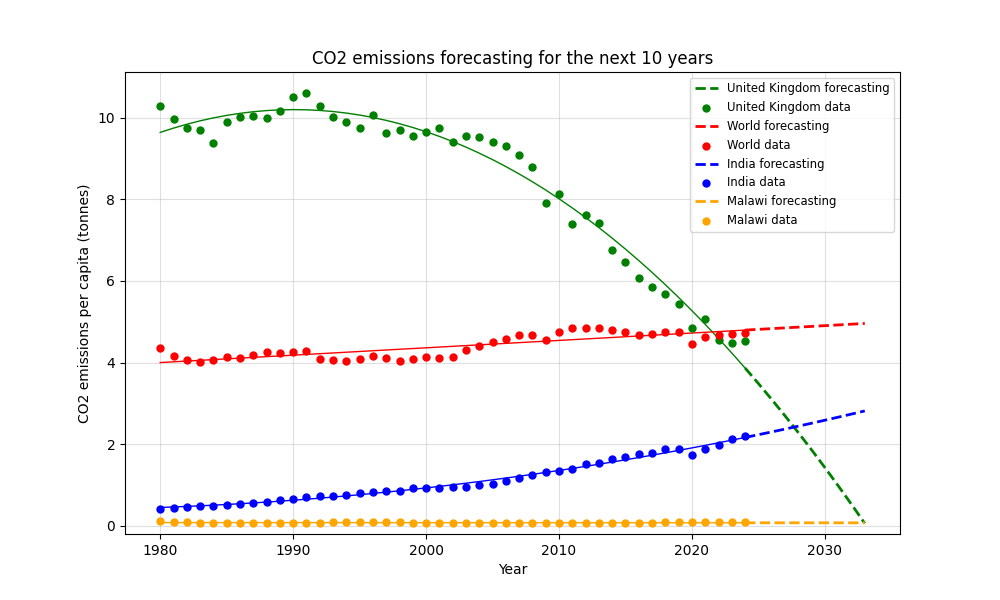
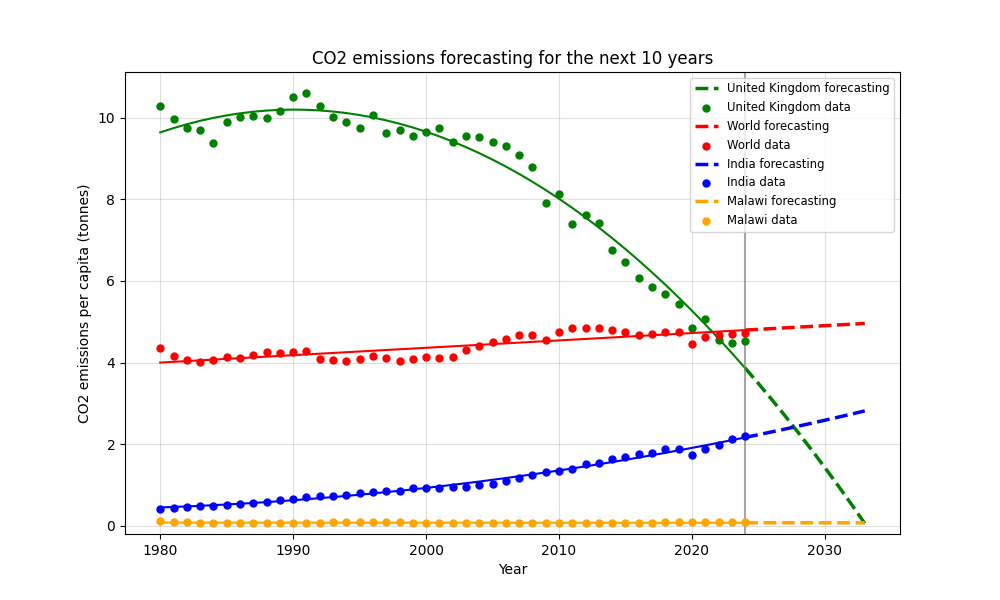
line width change

diff --git a/Figures/co2_emissions_forecast.py b/Figures/co2_emissions_forecast.py
@@ -43,14 +43,14 @@ for country in countries:
         x_forecast[historical],
         y_forecast[historical],
         color=colors[country],
-        linewidth=1,
+        linewidth=1.5,
     )          
     
     plt.plot(x_forecast[future],
                 y_forecast[future],
                 color=colors[country],
                 linestyle="--",
-                linewidth=2,
+                linewidth=2.5,
                 label=f"{country} forecasting")
 
     plt.scatter(x_train,
@@ -63,6 +63,7 @@ for country in countries:
 plt.xlabel("Year")
 plt.ylabel("CO2 emissions per capita (tonnes)")
 plt.title("CO2 emissions forecasting for the next 10 years")
+plt.axvline(x=2024,color="grey",linestyle="-",linewidth=1.5,alpha=0.7)
 plt.ylim(-0.2,None)
 plt.grid(True,alpha=0.4)
 
